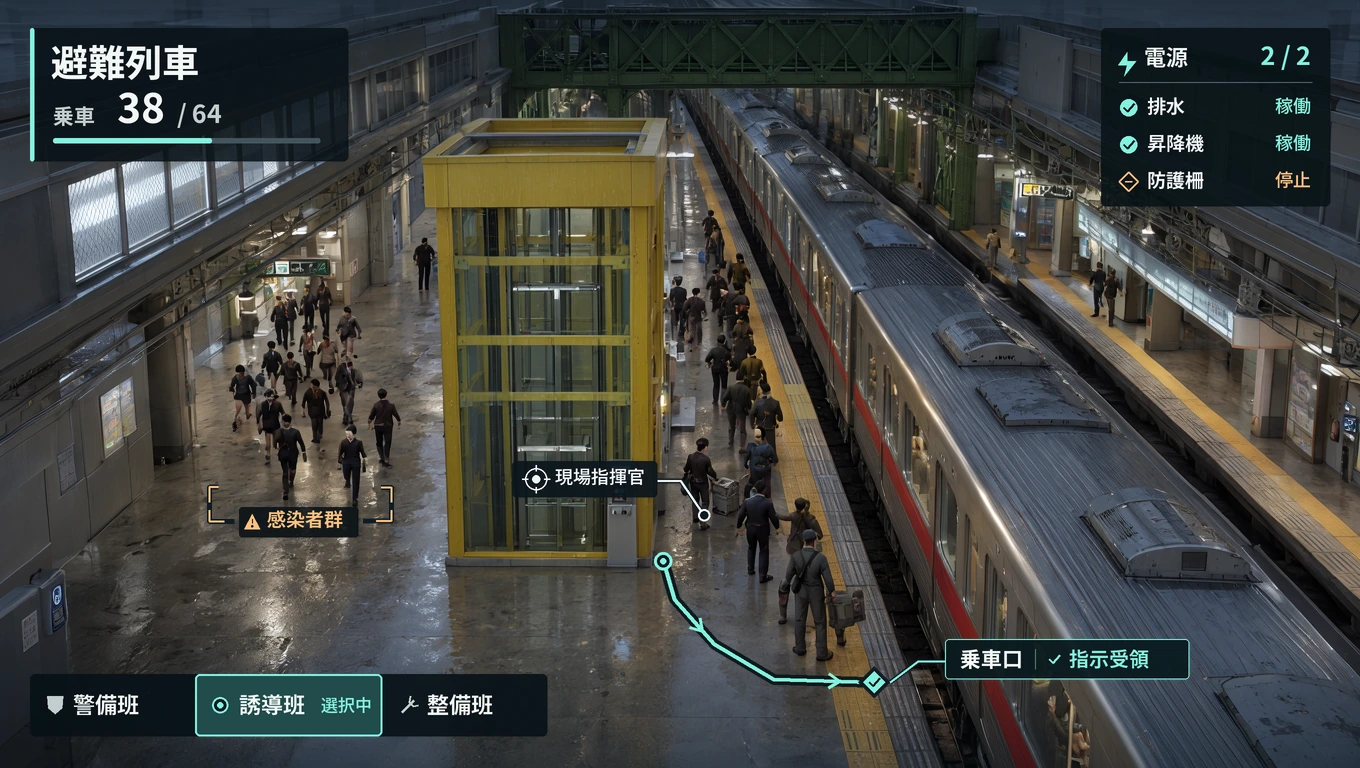
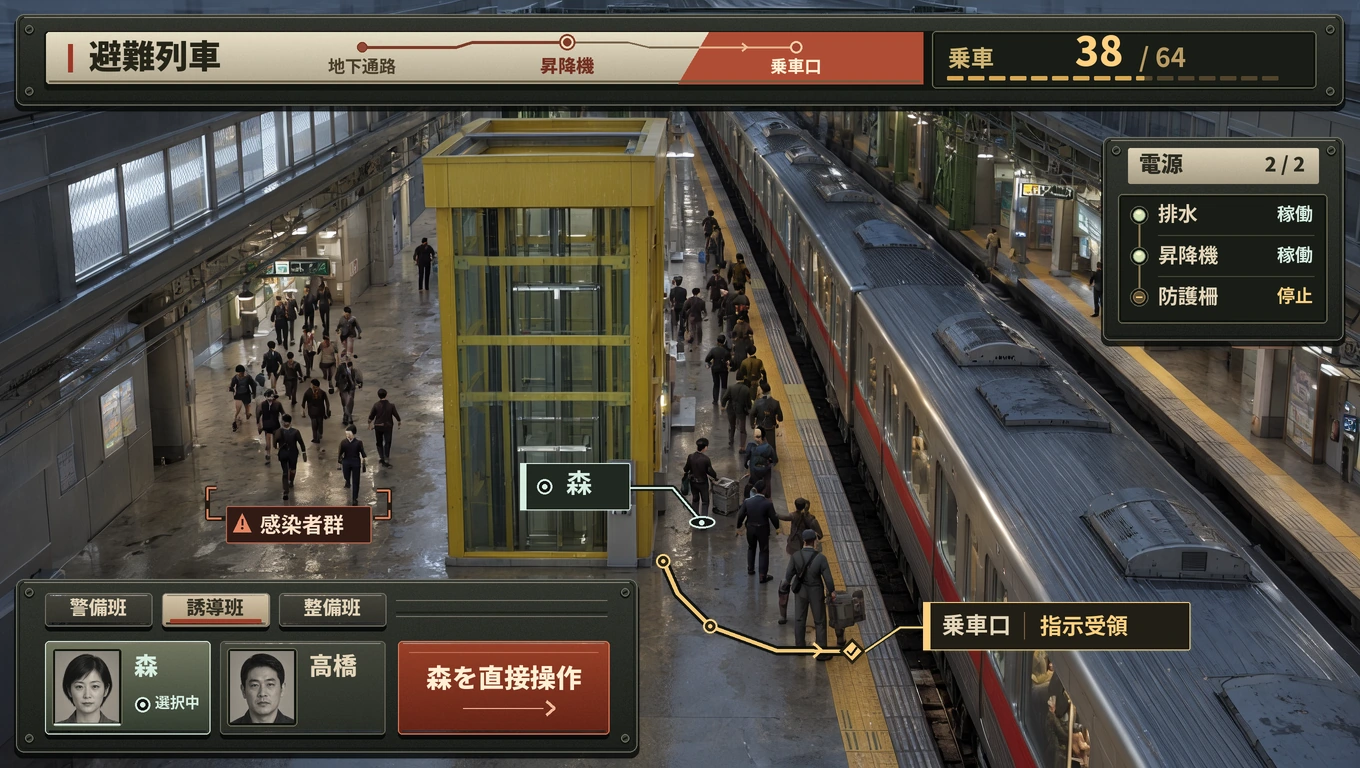
Center the campaign on switching soldiers and design the station field interfaces

diff --git a/2026-11-19-2/AGENTS.md b/2026-11-19-2/AGENTS.md
@@ -1,6 +1,6 @@
 # ゾンビサバイバルの制作方針
 
-スマホとPCで遊べる一人用のRTS＋FPSを制作する。企画名にはジャンルを使い、正式タイトルは後で決める。代表任務と制作上の仮定は[ゲーム企画書](docs/game-plan.md)を参照する。
+スマホとPCで遊べる一人用のRTS＋FPSを制作する。作戦はRTSで始まり、プレイヤーは配下の兵士を一人選んでFPSで直接操作する。指揮に戻れば、同じ兵士にも別の兵士にも入れる。切り替える前後で班の命令と各兵士の状態を保つ。代表任務と品質目標は[ゲーム企画書](docs/game-plan.md)を参照する。
 
 画像はComfyUIのMoss-image、立体の舞台と人物はBlender、ゲーム本体はUnityを使う。生成画、組版した画面案、ゲーム内の映像には、それぞれ何を見ているのかを明記する。群衆と操作はスマホとPCの両方で計測する。
 
